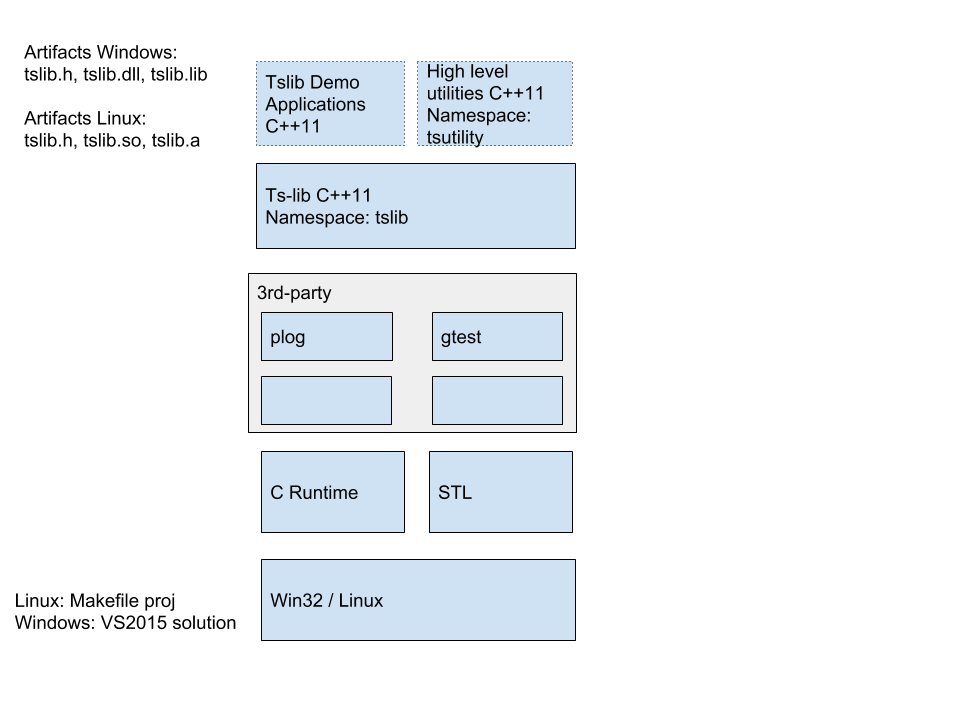
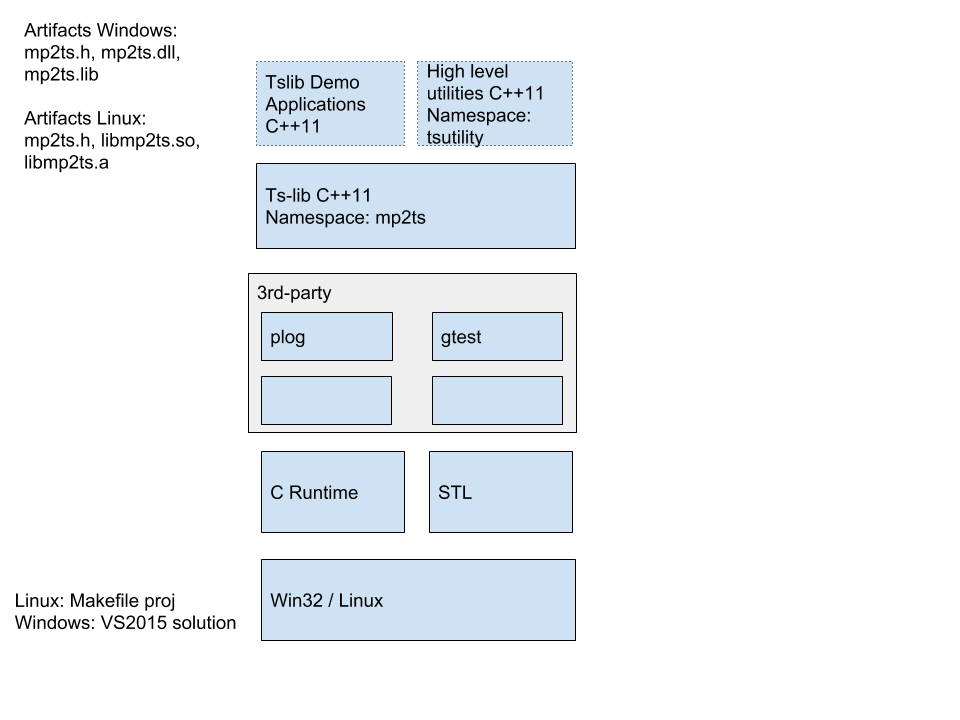
Remove PesPacket h-file

Changed region(s): [[0.0312, 0.0306, 0.2188, 0.1222], [0.0312, 0.1833, 0.2188, 0.2444], [0.375, 0.275, 0.4375, 0.3361]]

diff --git a/include/public/mp2ts.h b/include/public/mp2ts.h
@@ -1,0 +1,148 @@
+/**
+ * Strictly Confidential - Do not duplicate or distribute without written
+ * permission from authors
+ */
+
+#pragma once
+#ifdef _WIN32
+
+#ifdef TSLIB_DLL_EXPORTS
+#define TSLIB_API __declspec(dllexport)
+#else
+#define TSLIB_API __declspec(dllimport)
+#endif
+
+#elif __linux__
+#define TSLIB_API
+#endif
+
+
+#include <functional>
+#include <map>
+#include <memory>
+#include <vector>
+
+/// project files
+#include "PsiTables.h"
+#include "TsPacketInfo.h"
+#include "TsStatistics.h"
+
+// forward declarations
+class TsParser;
+
+typedef std::vector<uint8_t> ByteVector;
+typedef std::shared_ptr<ByteVector> ByteVectorPtr;
+
+
+/// Window types
+#ifdef WIN32
+#define ssize_t size_t
+typedef char TCHAR;
+#endif
+
+/*!
+ * @class PES-Packet prototype containing buffer
+ *
+ */
+struct PesPacket
+{
+    uint32_t packet_start_code_prefix;
+    uint8_t stream_id;
+    uint16_t PES_packet_length;
+
+    // Extended packet
+    // TODO move out by inheritance?
+    bool PES_scrambling_control;
+    bool PES_priority;
+    bool data_alignment_indicator;
+    bool copyright;
+    bool original_or_copy;
+    uint8_t PTS_DTS_flags;
+    bool ESCR_flag;
+    bool ES_rate_flag;
+    bool DSM_trick_mode_flag;
+    bool additional_copy_info_flag;
+    bool PES_CRC_flag;
+    bool PES_extension_flag;
+
+    uint8_t PES_header_data_length;
+    uint16_t elementary_data_offset; // where ES data begins
+
+    int64_t pts;
+    int64_t dts;
+
+    ByteVector mPesBuffer;
+
+    friend std::ostream& operator<<(std::ostream& ss, const PesPacket& rhs);
+};
+
+namespace tslib
+{
+
+
+
+typedef std::function<void(PsiTable* table, uint16_t pid, void* hdl)> PsiCallBackFnc;
+typedef std::function<void(const PesPacket& table, uint16_t pid, void* hdl)> PesCallBackFnc;
+typedef std::function<void(const uint8_t* packet, TsPacketInfo tsPacketInfo, void* hdl)> TsCallBackFnc;
+
+/// @brief Demux ts packets into PSI and PES (plus TS pass through)
+class TsDemuxer
+{
+public:
+    TSLIB_API TsDemuxer();
+
+    TSLIB_API ~TsDemuxer();
+
+    /*!
+     * Demuxes a transport stream packed based on its Packet ID.
+     * @param tsPacket The TS packet to demux.
+     */
+    TSLIB_API void demux(const uint8_t* tsPacket);
+
+    /*!
+     * Outputs to callback function when found a PSI table with PID.
+     * @param pid The PID to filter PSI tables.
+     * @param cb Returns a complete PSI table to this callback function.
+     * @param hdl Custom handler
+     */
+    TSLIB_API void addPsiPid(int pid, PsiCallBackFnc cb, void* hdl);
+
+    /*!
+     * Returns a complete PES packet with PID.
+     * @param pid The PID to filter PES packets.
+     * @param cb  Callback when found a complete PES packet.
+     * @param hdl Custom handler
+     */
+    TSLIB_API void addPesPid(int pid, PesCallBackFnc cb, void* hdl);
+
+    /*!
+     * Returns a complete TS packet filtered on PID.
+     * @param pid The PID to filter TS packets.
+     * @param cb Callback when found a TS packet.
+     * @param hdl Custom handler
+     */
+    TSLIB_API void addTsPid(int pid, TsCallBackFnc cb, void* hdl);
+
+    /*!
+     * Returns statistics on parsed transport stream packets.
+     * @return TsStatistics containing collected statistics for all demuxed packets.
+     */
+    TSLIB_API TsStatistics
+
+    getTsStatistics() const;
+
+protected:
+    std::map<int, PsiCallBackFnc> mPsiCallbackMap;
+    std::map<int, PesCallBackFnc> mPesCallbackMap;
+    std::map<int, TsCallBackFnc> mTsCallbackMap;
+    std::map<int, void*> mHandlers;
+
+private:
+    // Make this object be non copyable because it holds a pointer
+    TsDemuxer(const TsDemuxer&);
+
+    const TsDemuxer& operator=(const TsDemuxer&);
+
+    TsParser* mParser;
+};
+}

diff --git a/src/TsDemuxer.cc b/src/TsDemuxer.cc
@@ -12,7 +12,7 @@
 * Strictly Confidential - Do not duplicate or distribute without written
 * permission from authors
 */
-#include "TsDemuxer.h"
+#include <public/mp2ts.h>
 #include "TsParser.h"
 #include "Logging.h"
 #include "TsParser.h"

diff --git a/src/main.cc b/src/main.cc
@@ -20,8 +20,8 @@
 #include <plog/Appenders/ConsoleAppender.h>
 
 /// Project files
+#include <public/mp2ts.h>
 #include "TsParser.h"
-#include "TsDemuxer.h"
 #include "TsPacketInfo.h"
 #include "TsStandards.h"
 #include "Logging.h"

diff --git a/include/TsParser.h b/include/TsParser.h
@@ -17,8 +17,8 @@
 #include <cstdint>
 
 // Project files
+#include <public/mp2ts.h>
 #include "GetBits.h"
-#include "PesPacket.h"
 #include "PsiTables.h"
 #include "TsPacketInfo.h"
 #include "TsStandards.h"

diff --git a/tests/TsDemuxer_Tests.cc b/tests/TsDemuxer_Tests.cc
@@ -7,7 +7,7 @@
 /// Project files
 #include "TsPacketInfo.h"
 #include "TsPacketTestData.h"
-#include "TsDemuxer.h"
+#include <public/mp2ts.h>
 
 
 using ::testing::StrictMock;

diff --git a/tests/TsStatistics_Tests.cc b/tests/TsStatistics_Tests.cc
@@ -7,7 +7,7 @@
 #include <iostream>
 
 /// Project files
-#include "TsDemuxer.h"
+#include <public/mp2ts.h>
 #include "TsPacketTestData.h"
 #include "TsStatistics.h"
 

diff --git a/src/PesPacket.cc b/src/PesPacket.cc
@@ -1,4 +1,4 @@
-#include "PesPacket.h"
+#include <public/mp2ts.h>
 
 
 
